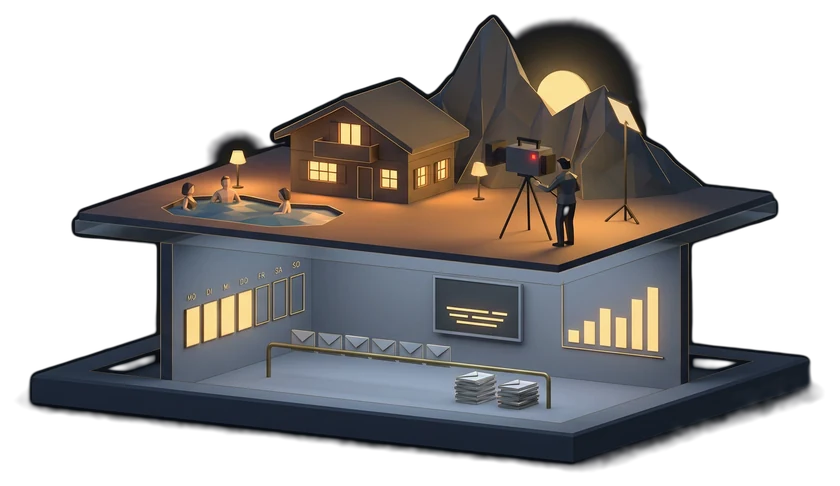
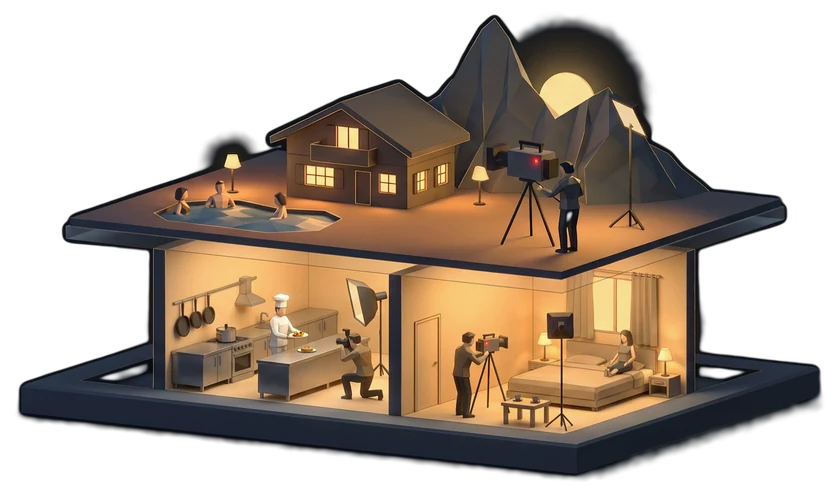
feat: tools graphic is about photography on every floor
Nicky: make it more about photography everywhere, the top is good, change the letter room at the bottom. The terrace level is unchanged; below it are a kitchen and a guest room, a photographer in each. Five second loop as before (animated WebP with alpha). He loved one of two stills without the number coming through: option 2 is the page's picture, ?grafik=1 shows option 1.

diff --git a/index.html b/index.html
@@ -299,8 +299,10 @@
          the ridge; the week as a board of seven tiles. The two <svg> stay: they are the
          fallback, and the plan's words (Mo to So, heute, the legend) are read from them -->
     <!-- 2026-11-23: one picture says it instead of the two models (Nicky: "make it more understandable", then
-         "update this with the new graphic"): a house cut open, above what guests see (the shoot at the pool),
-         below what runs in the background (plan, post, subtitles, report). It moves (a five second loop, an
+         "update this with the new graphic"): a house cut open, and photography everywhere (2026-11-24: "make it
+         more about photography everywhere ... the top is good ... change the letter room at the bottom"): above
+         the shoot at the pool, below a kitchen and a guest room, a photographer in each. ?grafik=1 shows the
+         other still of that round (js/tools.js) until he has named his pick. It moves (a five second loop, an
          animated WebP with a transparent background; a still for reduced motion) and stands right of the
          heading on wide screens. .tools--picture hides the flat pictures; js/tools.js then builds no models -->
     <section class="section tools tools--picture" id="werkzeuge">
@@ -315,8 +317,8 @@
       </header>
       <figure class="tools__picture">
         <picture>
-          <source media="(prefers-reduced-motion: reduce)" srcset="assets/img/tools-still.webp?v=1" />
-          <img src="assets/img/tools-anim.webp?v=1" width="840" height="486" alt="" loading="lazy" decoding="async" />
+          <source media="(prefers-reduced-motion: reduce)" srcset="assets/img/tools-still.webp?v=2" />
+          <img src="assets/img/tools-anim.webp?v=2" width="840" height="495" alt="" loading="lazy" decoding="async" />
         </picture>
       </figure>
       <div class="tools__split">
@@ -524,7 +526,7 @@
   <script src="js/main.js?v=94"></script>
   <script src="js/steps.js?v=26"></script>
   <script src="js/nav.js?v=3"></script>
-  <script src="js/tools.js?v=6"></script>
+  <script src="js/tools.js?v=7"></script>
 </body>
 
 </html>

diff --git a/js/tools.js b/js/tools.js
@@ -36,6 +36,12 @@
   // the way back.
   const fig = section.querySelector('.tools__picture');
   if (fig) {
+    // ?grafik=1: the other still of the 2026-11-24 round (kitchen in cool steel), same size
+    if (new URLSearchParams(location.search).get('grafik') === '1') {
+      const img = fig.querySelector('img'), src = fig.querySelector('source');
+      if (img) img.src = img.getAttribute('src').replace('tools-anim.webp', 'tools-anim-1.webp');
+      if (src) src.srcset = src.getAttribute('srcset').replace('tools-still.webp', 'tools-still-1.webp');
+    }
     if (still || !('IntersectionObserver' in window)) section.classList.add('tools--shown');
     else {
       new IntersectionObserver(es => { if (es.some(e => e.isIntersecting)) section.classList.add('tools--shown'); }, { threshold: 0.2 }).observe(section.querySelector('.tools__split'));
